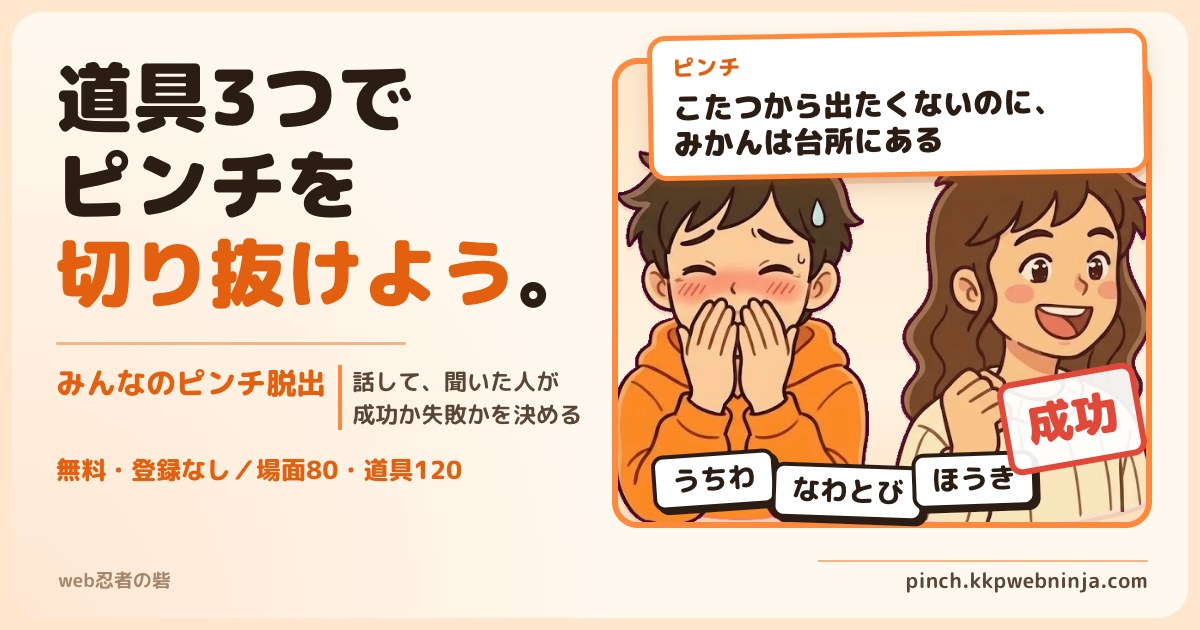
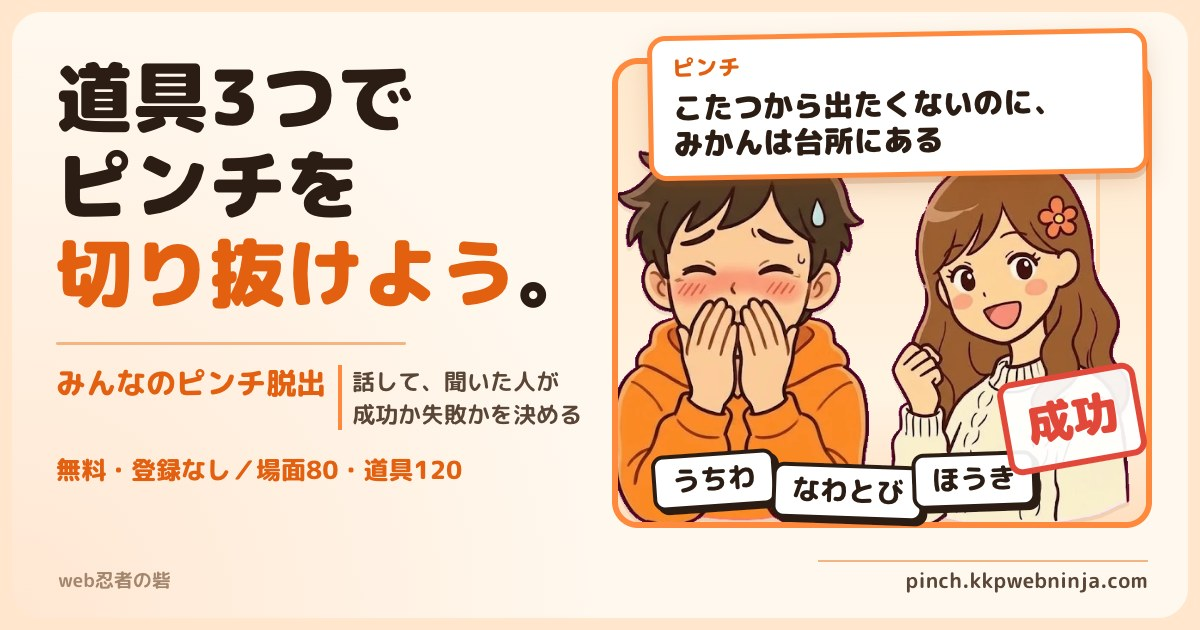
カード画像（OGP）の女の子を、ひと目で女の子と分かる絵に差し替える
男の子と同じ顔に見えていたため、kkp-kit の女の子の素材を作り直して書き出し直した（kkp-kit 978018e）。
og:image・twitter:image の ?d= を 20261023 にして、SNS に新しい画像を読み直させる。

Changed region(s): [[0.74, 0.2714, 0.9558, 0.754], [0.7708, 0.7238, 0.9558, 0.8444]]

diff --git a/index.html b/index.html
@@ -17,10 +17,10 @@
 <meta property="og:type" content="website">
 <meta property="og:url" content="https://pinch.kkpwebninja.com/">
 <meta property="og:site_name" content="みんなのピンチ脱出">
-<meta property="og:image" content="https://pinch.kkpwebninja.com/ogp.jpg?d=20261022">
+<meta property="og:image" content="https://pinch.kkpwebninja.com/ogp.jpg?d=20261023">
 <meta name="twitter:card" content="summary_large_image">
 <meta name="twitter:title" content="みんなのピンチ脱出｜道具3つで切り抜ける話をする">
-<meta name="twitter:image" content="https://pinch.kkpwebninja.com/ogp.jpg?d=20261022">
+<meta name="twitter:image" content="https://pinch.kkpwebninja.com/ogp.jpg?d=20261023">
 
 <script type="application/ld+json">
 {

diff --git a/haishin/index.html b/haishin/index.html
@@ -11,7 +11,7 @@
 <meta property="og:type" content="article">
 <meta property="og:url" content="https://pinch.kkpwebninja.com/haishin/">
 <meta property="og:site_name" content="みんなのピンチ脱出">
-<meta property="og:image" content="https://pinch.kkpwebninja.com/ogp.jpg?d=20261022">
+<meta property="og:image" content="https://pinch.kkpwebninja.com/ogp.jpg?d=20261023">
 <meta name="twitter:card" content="summary_large_image">
 <meta name="twitter:title" content="配信・実況でみんなのピンチ脱出を遊ぶ方法">
 <link rel="icon" type="image/png" sizes="32x32" href="/favicon.png">
